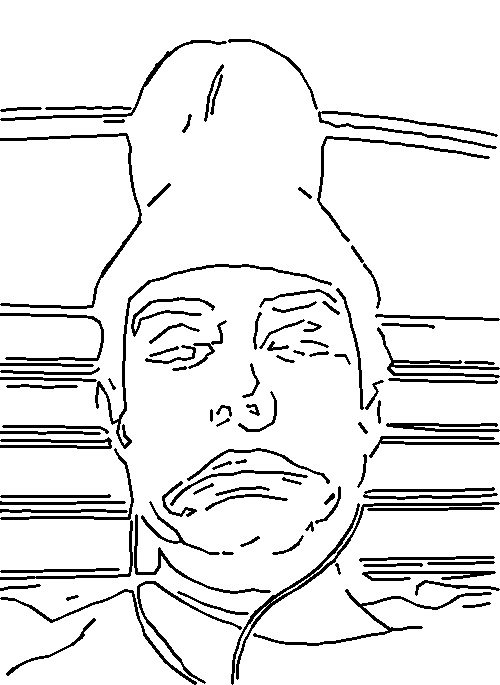
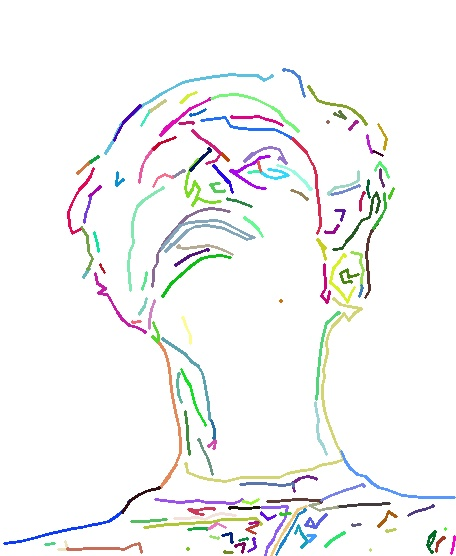
saves pickle

diff --git a/face_full_processing.py b/face_full_processing.py
@@ -4,6 +4,7 @@ import random as rd
 import time
 import math
 import sys
+import pickle
  
 def getAngle(a, b, c):
     ang = math.degrees(math.atan2(c[1]-b[1], c[0]-b[0]) - math.atan2(a[1]-b[1], a[0]-b[0]))
@@ -45,7 +46,7 @@ def check_close(xP,yP):
 
     return None
 
-input_img = cv2.imread('seansmall.jpg')
+input_img = cv2.imread('s1.jpg')
 gray = cv2.cvtColor(input_img,cv2.COLOR_BGR2GRAY)
 gray = cv2.GaussianBlur(gray, (13,13), 0)
 edges = cv2.Canny(gray,0,40)
@@ -145,8 +146,8 @@ img[mask>0] = (255,255,255)
 
 for seg in segments:
 
-    # color = tuple(rd.randrange(0,255) for i in range(3))
-    color = (0,0,0)
+    color = tuple(rd.randrange(0,255) for i in range(3))
+    # color = (0,0,0)
 
     i = 0
     for i in range(len(seg)-1):
@@ -166,6 +167,9 @@ while i < len(segments):
         i-=1
     i+=1
 # for i in range(len(segments)):
+
+with open("path.pickle", 'wb') as file:
+    pickle.dump(segments, file)
     
 
 
